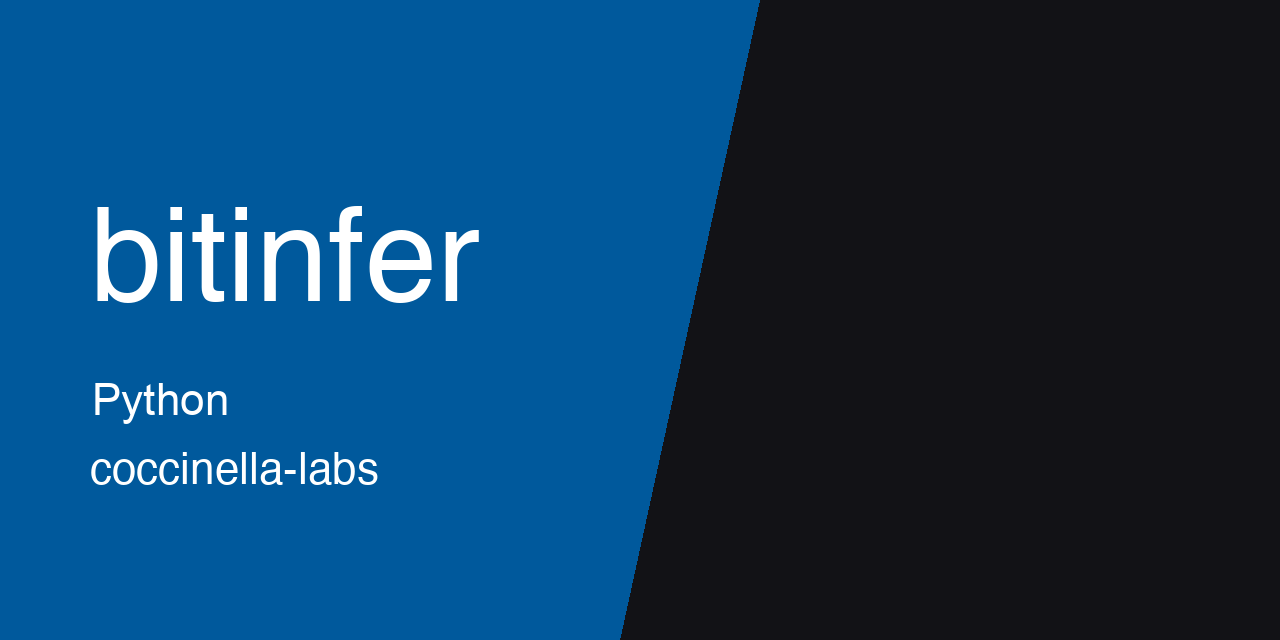
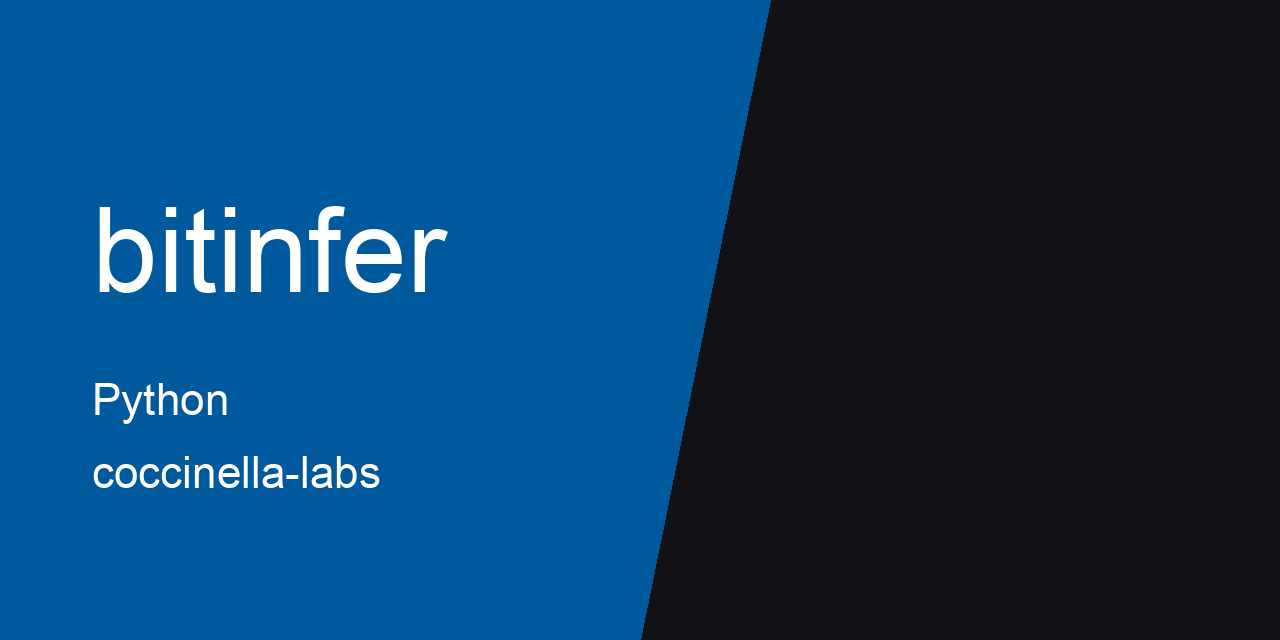
Generate the thumbnail from the repo's language and check it in CI

Changed region(s): [[0.0625, 0.3125, 0.375, 0.4688], [0.4688, 0.0, 0.625, 1.0], [0.0625, 0.6875, 0.3125, 0.7812]]

diff --git a/scripts/make_thumbnail.py b/scripts/make_thumbnail.py
@@ -1,0 +1,146 @@
+#!/usr/bin/env python3
+# SPDX-License-Identifier: MIT
+# SPDX-FileCopyrightText: 2026 coccinella-labs
+"""Regenerate the repository thumbnail.
+
+The thumbnail is a 1280x640 banner: a solid panel on the left carrying the
+project name, the primary language, and the organisation, with a dark angled
+wedge on the right. It was hand-maintained until this script existed, which is
+how it came to label a Python package as C++.
+
+Run:  python scripts/make_thumbnail.py
+      python scripts/make_thumbnail.py --check
+
+--check exits non-zero if the committed image differs from what this script
+would produce, which is what CI runs so the label cannot silently go stale.
+The language is not hard-coded here: it is taken from GitHub's language
+statistics for the repository, with --language as the offline override.
+"""
+
+from __future__ import annotations
+
+import argparse
+import json
+import subprocess
+import sys
+import tempfile
+from pathlib import Path
+
+from PIL import Image, ImageDraw, ImageFont
+
+WIDTH = 1280
+HEIGHT = 640
+
+PANEL = (0, 89, 156)
+BACKGROUND = (18, 18, 22)
+FOREGROUND = (255, 255, 255)
+
+# Left margin, and the baseline positions the existing banner uses.
+LEFT = 92
+TITLE_TOP = 185
+LANGUAGE_TOP = 375
+ORG_TOP = 448
+
+TITLE_SIZE = 118
+LABEL_SIZE = 44
+
+# Where the angled wedge starts and ends, measured off the existing artwork.
+WEDGE_TOP_X = 770
+WEDGE_BOTTOM_X = 640
+
+FONT_CANDIDATES = (
+    "/System/Library/Fonts/Supplemental/Arial.ttf",
+    "/System/Library/Fonts/Helvetica.ttc",
+    "/usr/share/fonts/truetype/dejavu/DejaVuSans.ttf",
+    "/usr/share/fonts/truetype/liberation/LiberationSans-Regular.ttf",
+)
+
+REPO = "coccinella-labs/bitinfer"
+THUMBNAIL = (
+    Path(__file__).resolve().parent.parent / ".github" / "assets" / "thumbnail.png"
+)
+
+
+def load_font(size: int) -> ImageFont.FreeTypeFont:
+    for candidate in FONT_CANDIDATES:
+        if Path(candidate).exists():
+            return ImageFont.truetype(candidate, size)
+    raise SystemExit("no usable font found; tried:\n  " + "\n  ".join(FONT_CANDIDATES))
+
+
+def primary_language(repo: str) -> str:
+    """Largest language by byte count, per GitHub's own statistics."""
+    try:
+        raw = subprocess.run(
+            ["gh", "api", f"repos/{repo}/languages"],
+            capture_output=True,
+            text=True,
+            check=True,
+        ).stdout
+    except (subprocess.CalledProcessError, FileNotFoundError) as exc:
+        raise SystemExit(f"could not read language stats for {repo}: {exc}")
+
+    stats = json.loads(raw)
+    if not stats:
+        raise SystemExit(f"{repo} reports no languages")
+    return max(stats.items(), key=lambda kv: kv[1])[0]
+
+
+def render(title: str, language: str, org: str, path: Path) -> None:
+    image = Image.new("RGB", (WIDTH, HEIGHT), BACKGROUND)
+    draw = ImageDraw.Draw(image)
+
+    # Solid panel with a diagonal right edge.
+    draw.polygon(
+        [(0, 0), (WEDGE_TOP_X, 0), (WEDGE_BOTTOM_X, HEIGHT), (0, HEIGHT)],
+        fill=PANEL,
+    )
+
+    title_font = load_font(TITLE_SIZE)
+    label_font = load_font(LABEL_SIZE)
+    draw.text((LEFT, TITLE_TOP), title, font=title_font, fill=FOREGROUND)
+    draw.text((LEFT, LANGUAGE_TOP), language, font=label_font, fill=FOREGROUND)
+    draw.text((LEFT, ORG_TOP), org, font=label_font, fill=FOREGROUND)
+
+    path.parent.mkdir(parents=True, exist_ok=True)
+    image.save(path, "PNG")
+
+
+def main() -> int:
+    parser = argparse.ArgumentParser(description=__doc__)
+    parser.add_argument(
+        "--check", action="store_true", help="verify only, do not write"
+    )
+    parser.add_argument("--language", help="override the detected language")
+    parser.add_argument("--repo", default=REPO)
+    args = parser.parse_args()
+
+    language = args.language or primary_language(args.repo)
+    title = args.repo.split("/")[-1]
+    org = args.repo.split("/")[0]
+
+    if args.check:
+        if not THUMBNAIL.exists():
+            print(f"{THUMBNAIL} is missing", file=sys.stderr)
+            return 1
+        with tempfile.TemporaryDirectory() as tmp:
+            candidate = Path(tmp) / "thumbnail.png"
+            render(title, language, org, candidate)
+            same = candidate.read_bytes() == THUMBNAIL.read_bytes()
+        if same:
+            print(f"thumbnail is current ({language})")
+            return 0
+        print(
+            f"thumbnail is stale: it does not match the generated "
+            f"{title}/{language}/{org} image. Run: python scripts/make_thumbnail.py",
+            file=sys.stderr,
+        )
+        return 1
+
+    render(title, language, org, THUMBNAIL)
+    print(f"wrote {THUMBNAIL} ({title} / {language} / {org})")
+    return 0
+
+
+if __name__ == "__main__":
+    raise SystemExit(main())
